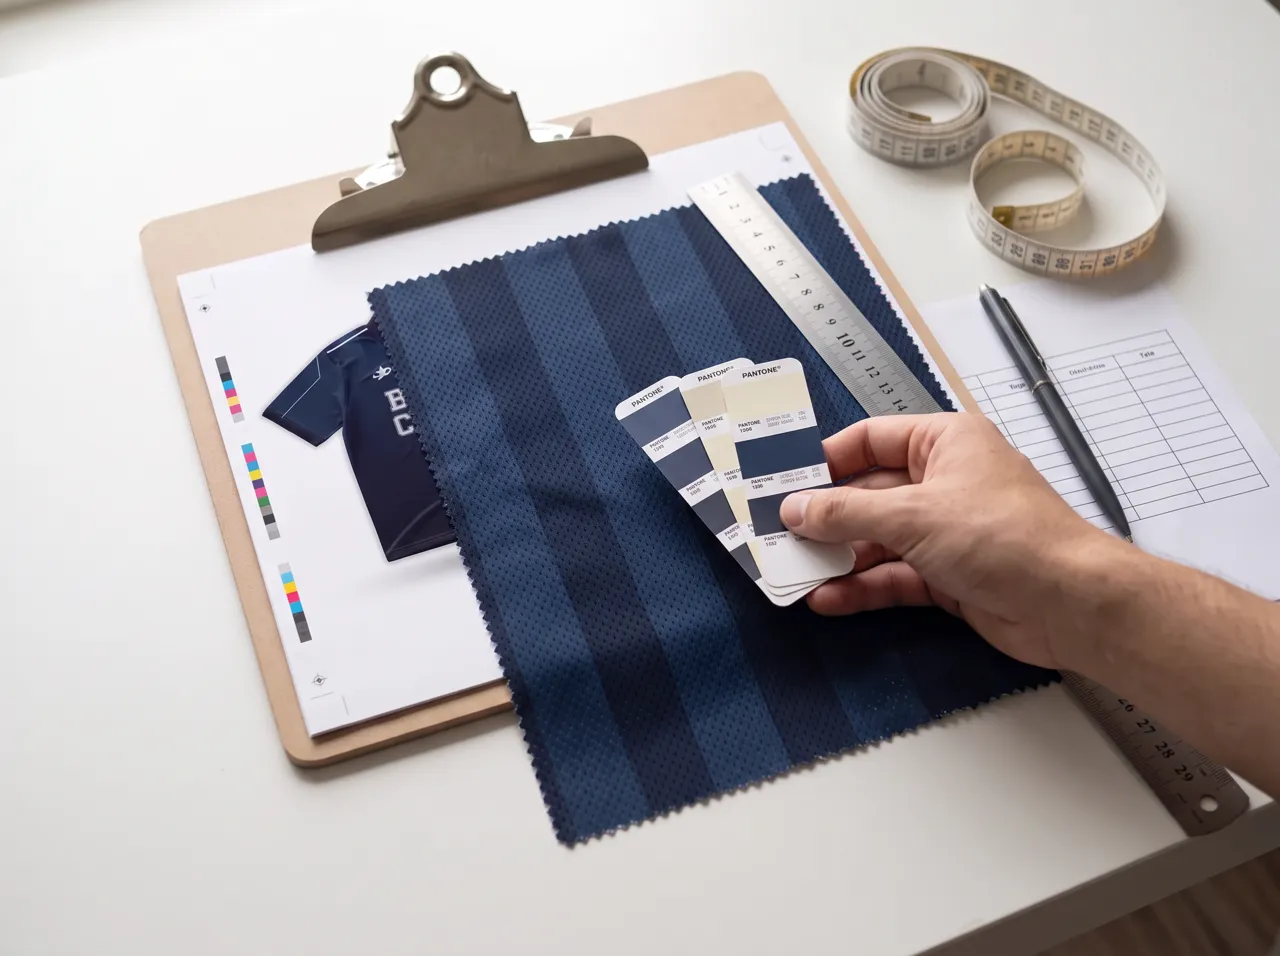
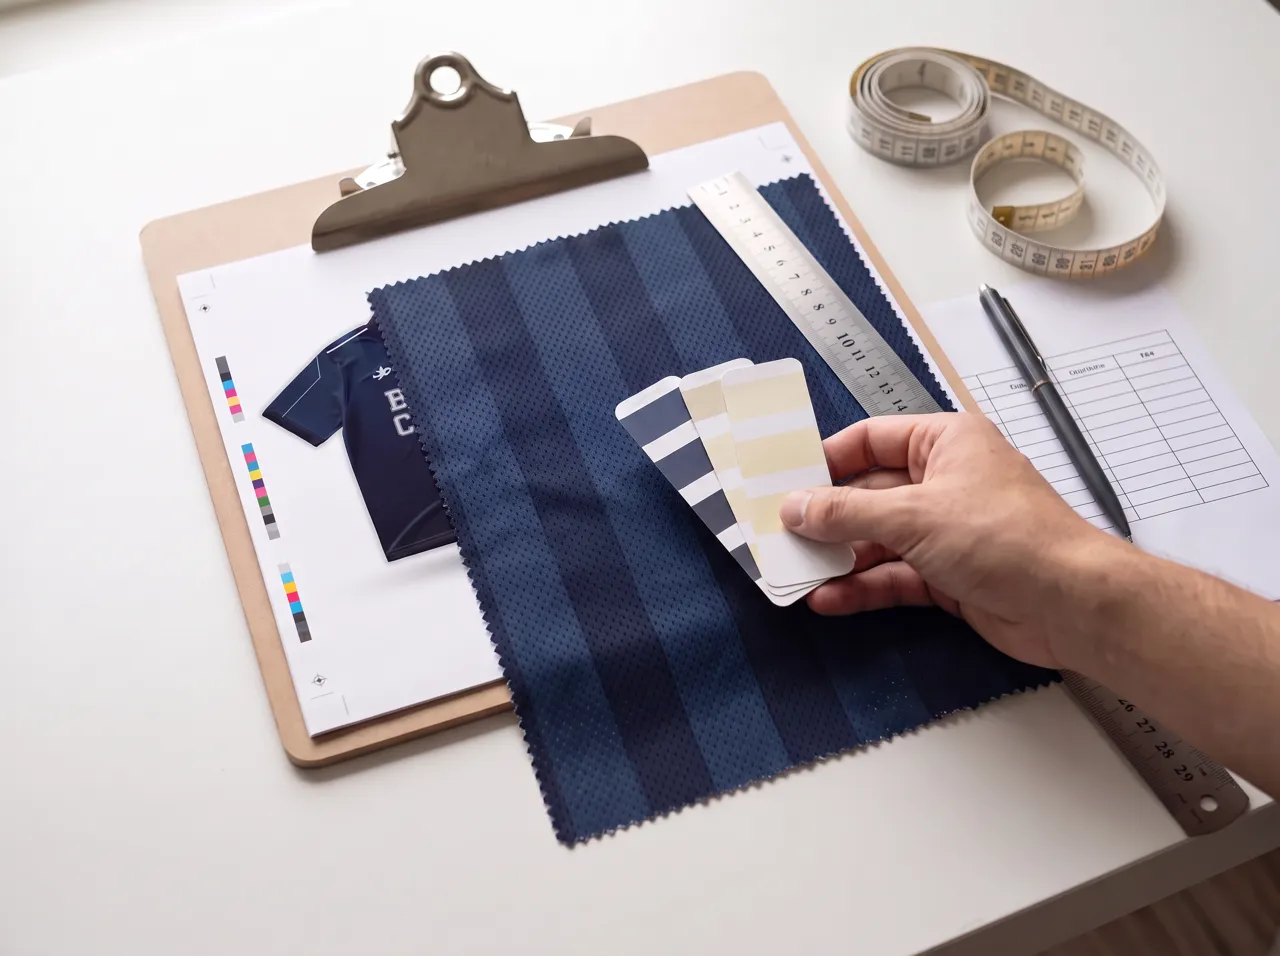
fix(sublimation): show every review and drop brand text from the sample photo
- Reviews fill from the shared pool like /embroidery/: the 9 reviews with
  clearly printed shirts stay first, then all others (13 cards), and the
  photo wall tops up to 10
- The sample-step photo no longer shows PANTONE or colour codes on the
  swatch cards

diff --git a/tests/pp-v2.test.js b/tests/pp-v2.test.js
@@ -137,22 +137,26 @@ test('/sublimation/ ทำไมต้องสั่งกับทีมดี
   assert.ok(s.indexOf('pp2-pf__steps') < s.indexOf('pp2-pf__bts') && s.indexOf('pp2-pf__bts') < s.indexOf('pp2-pf__note'))
 })
 
-test('/sublimation/ รีวิวลูกค้า (บอร์ด "รีวิวลูกค้า"): ใช้รีวิวโฉมใหม่ของ /corporate/ · เฉพาะรายที่เห็นเสื้อพิมพ์ลายในรูป · ไม่มีช่องรอข้อมูล', () => {
+/* 16 พ.ย. 2026 อาร์ต "หน้า /sublimation/ จะให้เติมรีวิวจากคลังรวมเหมือนหน้างานปัก": รายที่เห็นเสื้อพิมพ์ลายในรูป (คัดไว้เดิม 9 ราย) ขึ้นก่อน แล้วรีวิวที่เหลือครบทุกราย
+   แถวรูปบนสุด: รูปที่คัดไว้ 8 รูปก่อน แล้วเติมให้ครบ 10 (topUpWall) */
+test('/sublimation/ รีวิวลูกค้า (บอร์ด "รีวิวลูกค้า"): ใช้รีวิวโฉมใหม่ของ /corporate/ · รายที่เห็นเสื้อพิมพ์ลายขึ้นก่อน แล้วรีวิวครบทุกราย · ไม่มีช่องรอข้อมูล', () => {
   const m = main('sublimation')
   const s = sec(m, 'hm-customer-proof up2-rv')
   assert.ok(m.indexOf('pp2-pf') < m.indexOf('up2-rv'), 'ต่อจากส่วนทำไมต้องสั่งกับทีมดี')
   assert.equal((m.match(/id="reviews"/g) || []).length, 1, 'ส่วนรีวิวเดียว (ไม่ซ้ำ ppReviews เดิม)')
-  assert.match(text(s).replace(/\s+/g, ''), /รีวิวจากลูกค้าเสื้อพิมพ์ลาย/)
+  assert.match(text(s).replace(/\s+/g, ''), /รีวิวจากแชทลูกค้าจริง/)
   const PRINT = ['print-fabric', 'np-connect', 'krungthai-badminton', 'runners', 'school-sportsday', 'swim-kids', 'outing-fabric', 'hr-outing', 'school-crossword']
   const wall = [...s.matchAll(/data-rv-open="([a-z-]+)"/g)].map((x) => x[1])
-  assert.ok(wall.length >= 8, 'กำแพงรูปลูกค้าจริง')
-  assert.equal(new Set(wall).size, wall.length, 'รายละรูป ไม่ซ้ำ')
-  for (const id of wall) assert.ok(PRINT.includes(id), id)
+  assert.equal(wall.length, 10, 'กำแพงรูปลูกค้าจริงครบ 10')
+  for (const id of wall.slice(0, 8)) assert.ok(PRINT.includes(id), `รูปที่คัดไว้ขึ้นก่อน: ${id}`)
+  const srcs = [...s.slice(s.indexOf('up2-rv__wall'), s.indexOf('</ul>', s.indexOf('up2-rv__wall'))).matchAll(/<img src="([^"]+)"/g)].map((x) => x[1])
+  assert.equal(new Set(srcs).size, srcs.length, 'รูปไม่ซ้ำ')
   /* 16 พ.ย. แถวเลื่อน (partial reviewRow) · การ์ดมี role/data-rv-id ต่อจาก class */
-  const cards = [...s.matchAll(/<article class="hm-rvb__item[^"]*"[^>]*data-rvb-item/g)]
-  assert.equal(cards.length, PRINT.length)
+  const cards = [...s.matchAll(/<article class="hm-rvb__item[^"]*"[^>]*data-rv-id="([^"]+)"/g)].map((x) => x[1])
+  assert.deepEqual(cards.slice(0, PRINT.length), PRINT, 'รายที่เห็นเสื้อพิมพ์ลายขึ้นก่อน')
+  assert.equal(cards.length, JSON.parse(readFileSync(new URL('../src/data/reviews.json', import.meta.url), 'utf8')).items.length, 'รีวิวครบทุกราย')
   assert.match(s, /สีที่พิมพ์ลายก็ตรงกับแบบ/, 'รีวิวที่พูดถึงงานพิมพ์ลายโดยตรงอยู่ในชุด')
-  assert.doesNotMatch(text(s.replace(/<script[\s\S]*?<\/script>/g, '')), /\[|รอข้อมูล|รีสอร์ท|ศาลเจ้า/)
+  assert.doesNotMatch(text(s.replace(/<script[\s\S]*?<\/script>/g, '')), /\[|รอข้อมูล/)
   assert.match(s, /data-rv-json/)
 })
 

diff --git a/tests/review-pool.test.js b/tests/review-pool.test.js
@@ -90,10 +90,10 @@ test('หน้ากลุ่มลูกค้า: ส่วนรีวิว
 })
 
 /* 16 พ.ย. อาร์ต (ภาพหน้างานปัก "รีวิวจากลูกค้าองค์กร 1/2") "แก้ตรงภาพแรกด้วย": หน้าสินค้าก็ใช้คลังเดียว รีวิวที่เลือกไว้ก่อน แล้วรีวิวที่เหลือครบทุกราย */
-/* หน้าพิมพ์ลายไม่เติม (เฉพาะรายที่เห็นเสื้อพิมพ์ลายในรูป · tests/pp-v2.test.js) แต่ใช้แถวเลื่อนแบบเดียวกัน */
-test('หน้าสินค้า: งานปักเติมรีวิวครบทุกราย (ที่เลือกไว้ขึ้นก่อน) · พิมพ์ลายคงเฉพาะที่เลือก · ทั้งสองหน้าเป็นแถวเลื่อน', { skip: !existsSync(page('embroidery')) }, () => {
+/* 16 พ.ย. 2026 อาร์ตให้หน้าพิมพ์ลายเติมเหมือนกัน (รายที่เห็นเสื้อพิมพ์ลายขึ้นก่อน · tests/pp-v2.test.js) */
+test('หน้าสินค้า: งานปักและพิมพ์ลายเติมรีวิวครบทุกราย (ที่เลือกไว้ขึ้นก่อน) · ทั้งสองหน้าเป็นแถวเลื่อน', { skip: !existsSync(page('embroidery')) }, () => {
   const PP = read('src/data/pp-v2.json')
-  for (const [id, key, n] of [['embroidery', 'polo', REVIEWS.length], ['sublimation', 'print', PP.print.reviews.items.length]]) {
+  for (const [id, key, n] of [['embroidery', 'polo', REVIEWS.length], ['sublimation', 'print', REVIEWS.length]]) {
     const sec = rvSection(readFileSync(page(id), 'utf8'))
     rowOk(sec, id, n)
     const ids = [...sec.matchAll(/data-rvb-item data-use="[a-z]+" data-rv-id="([^"]+)"/g)].map((m) => m[1])
